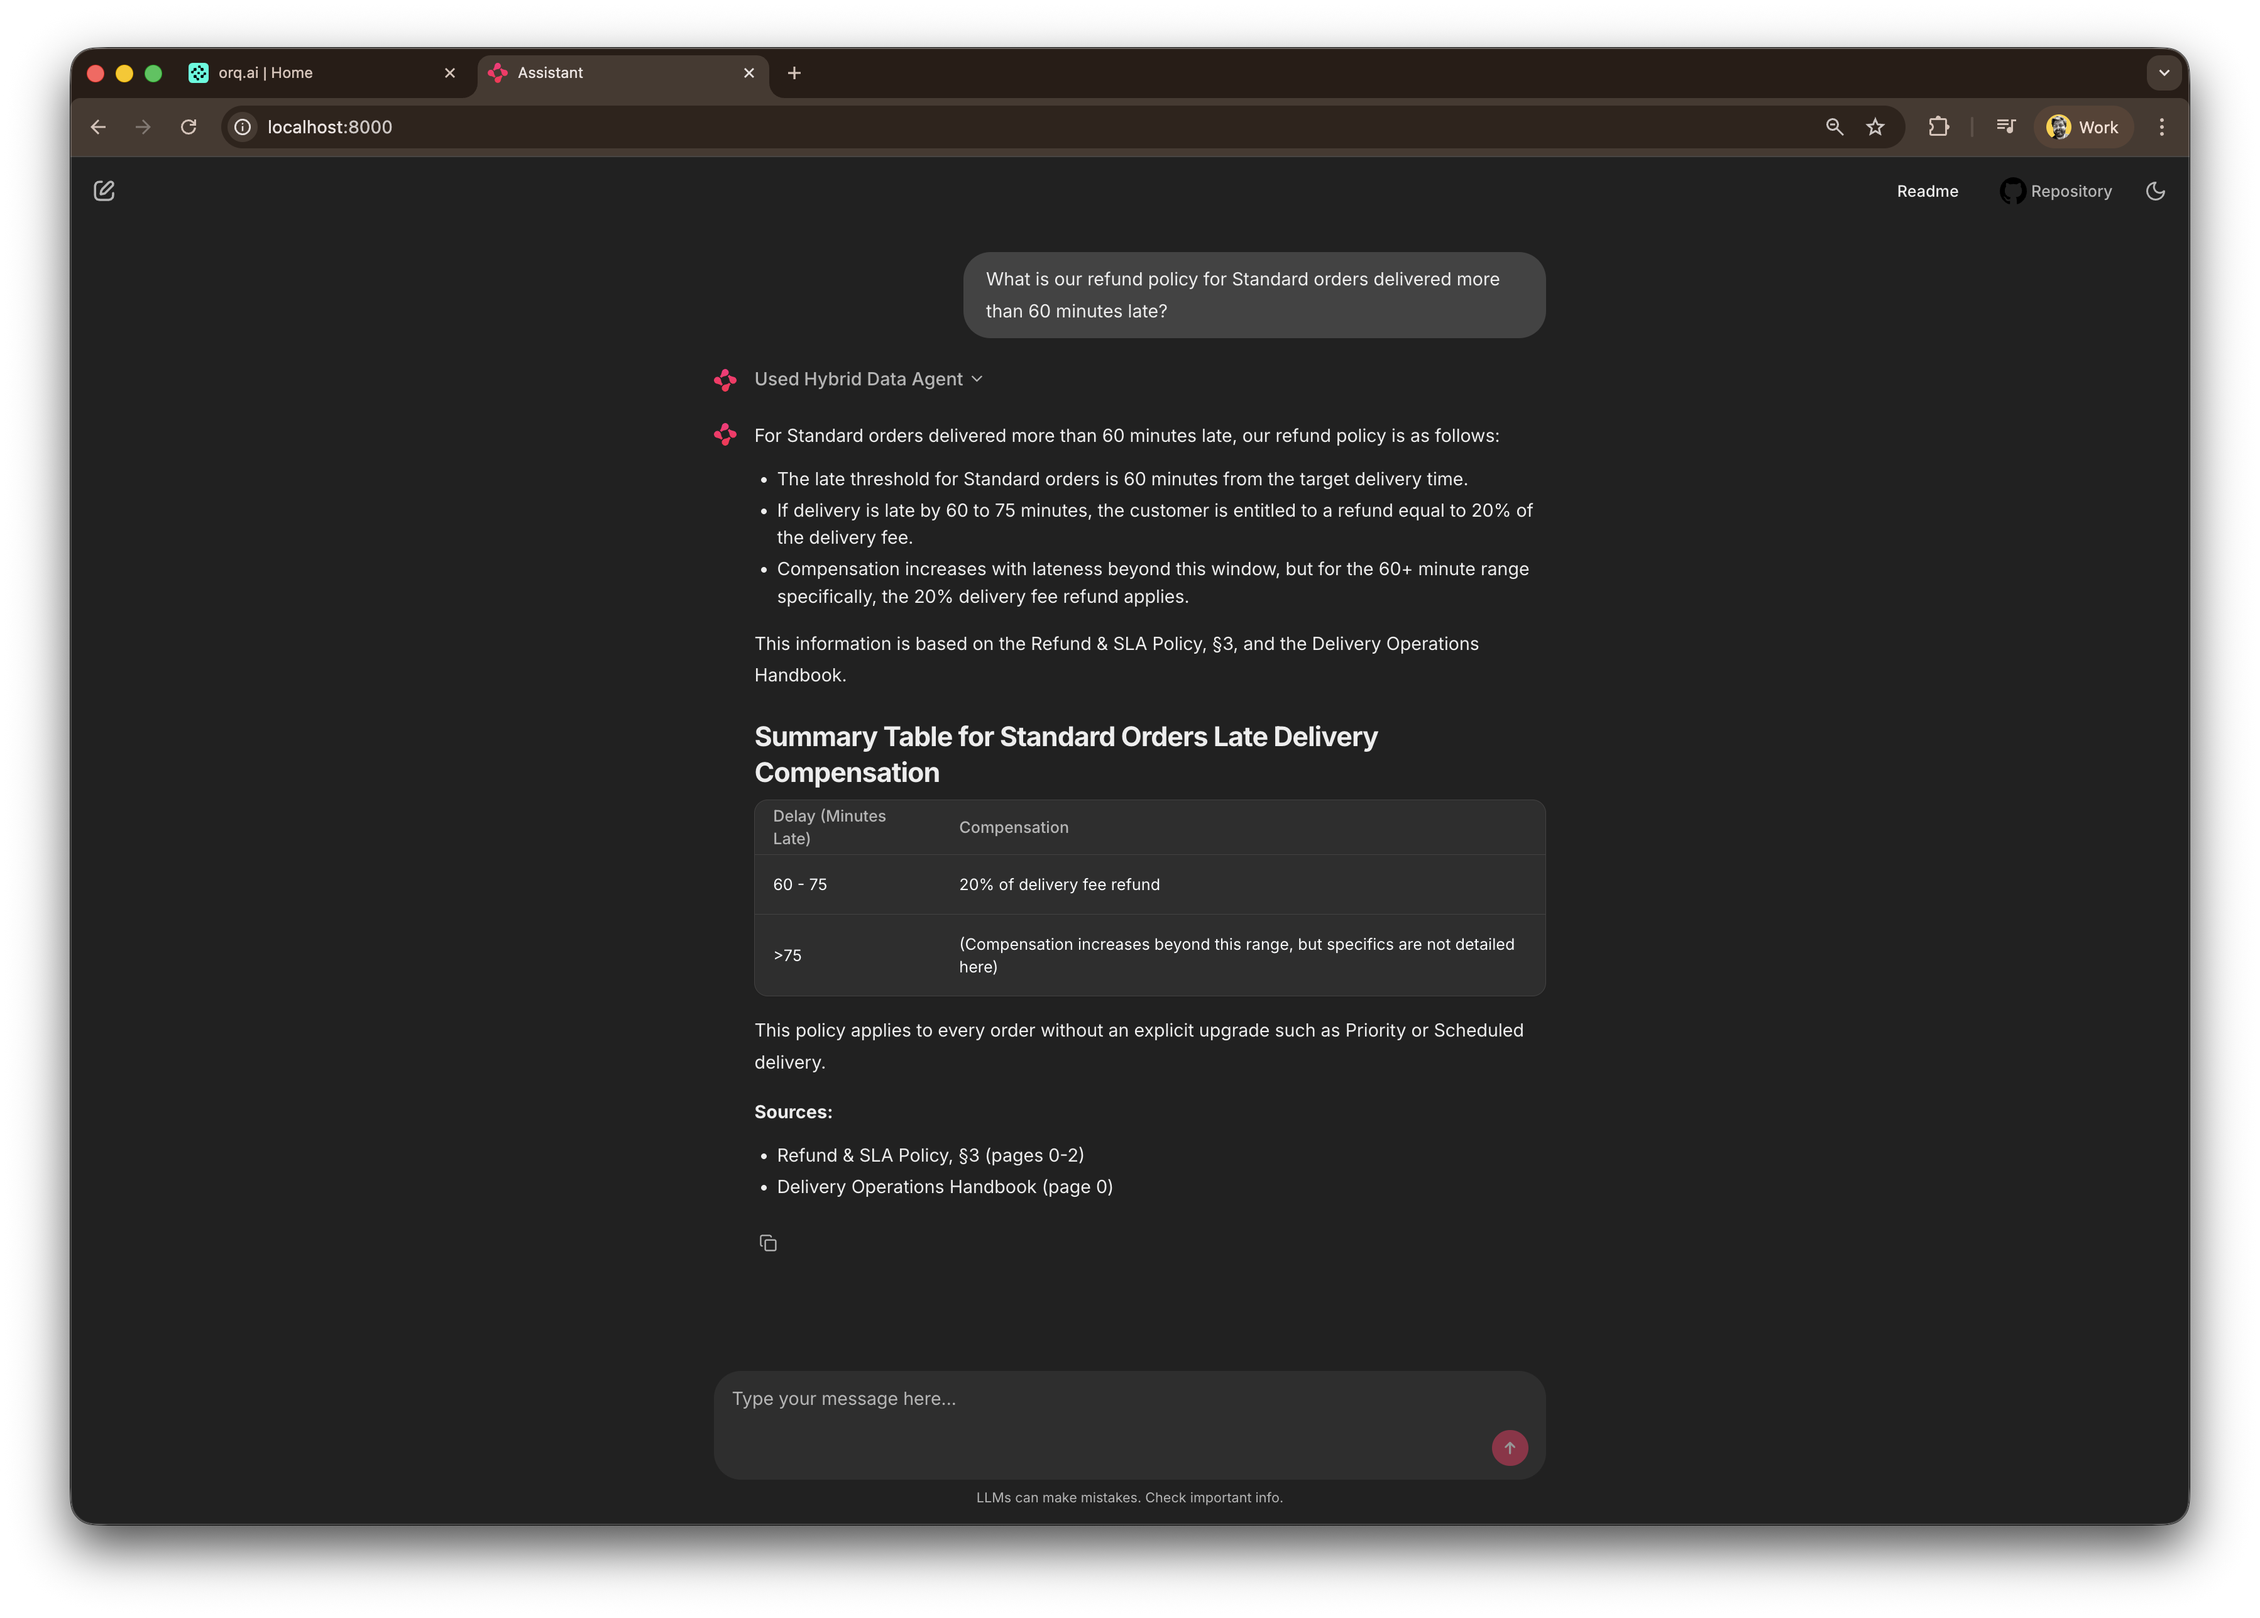
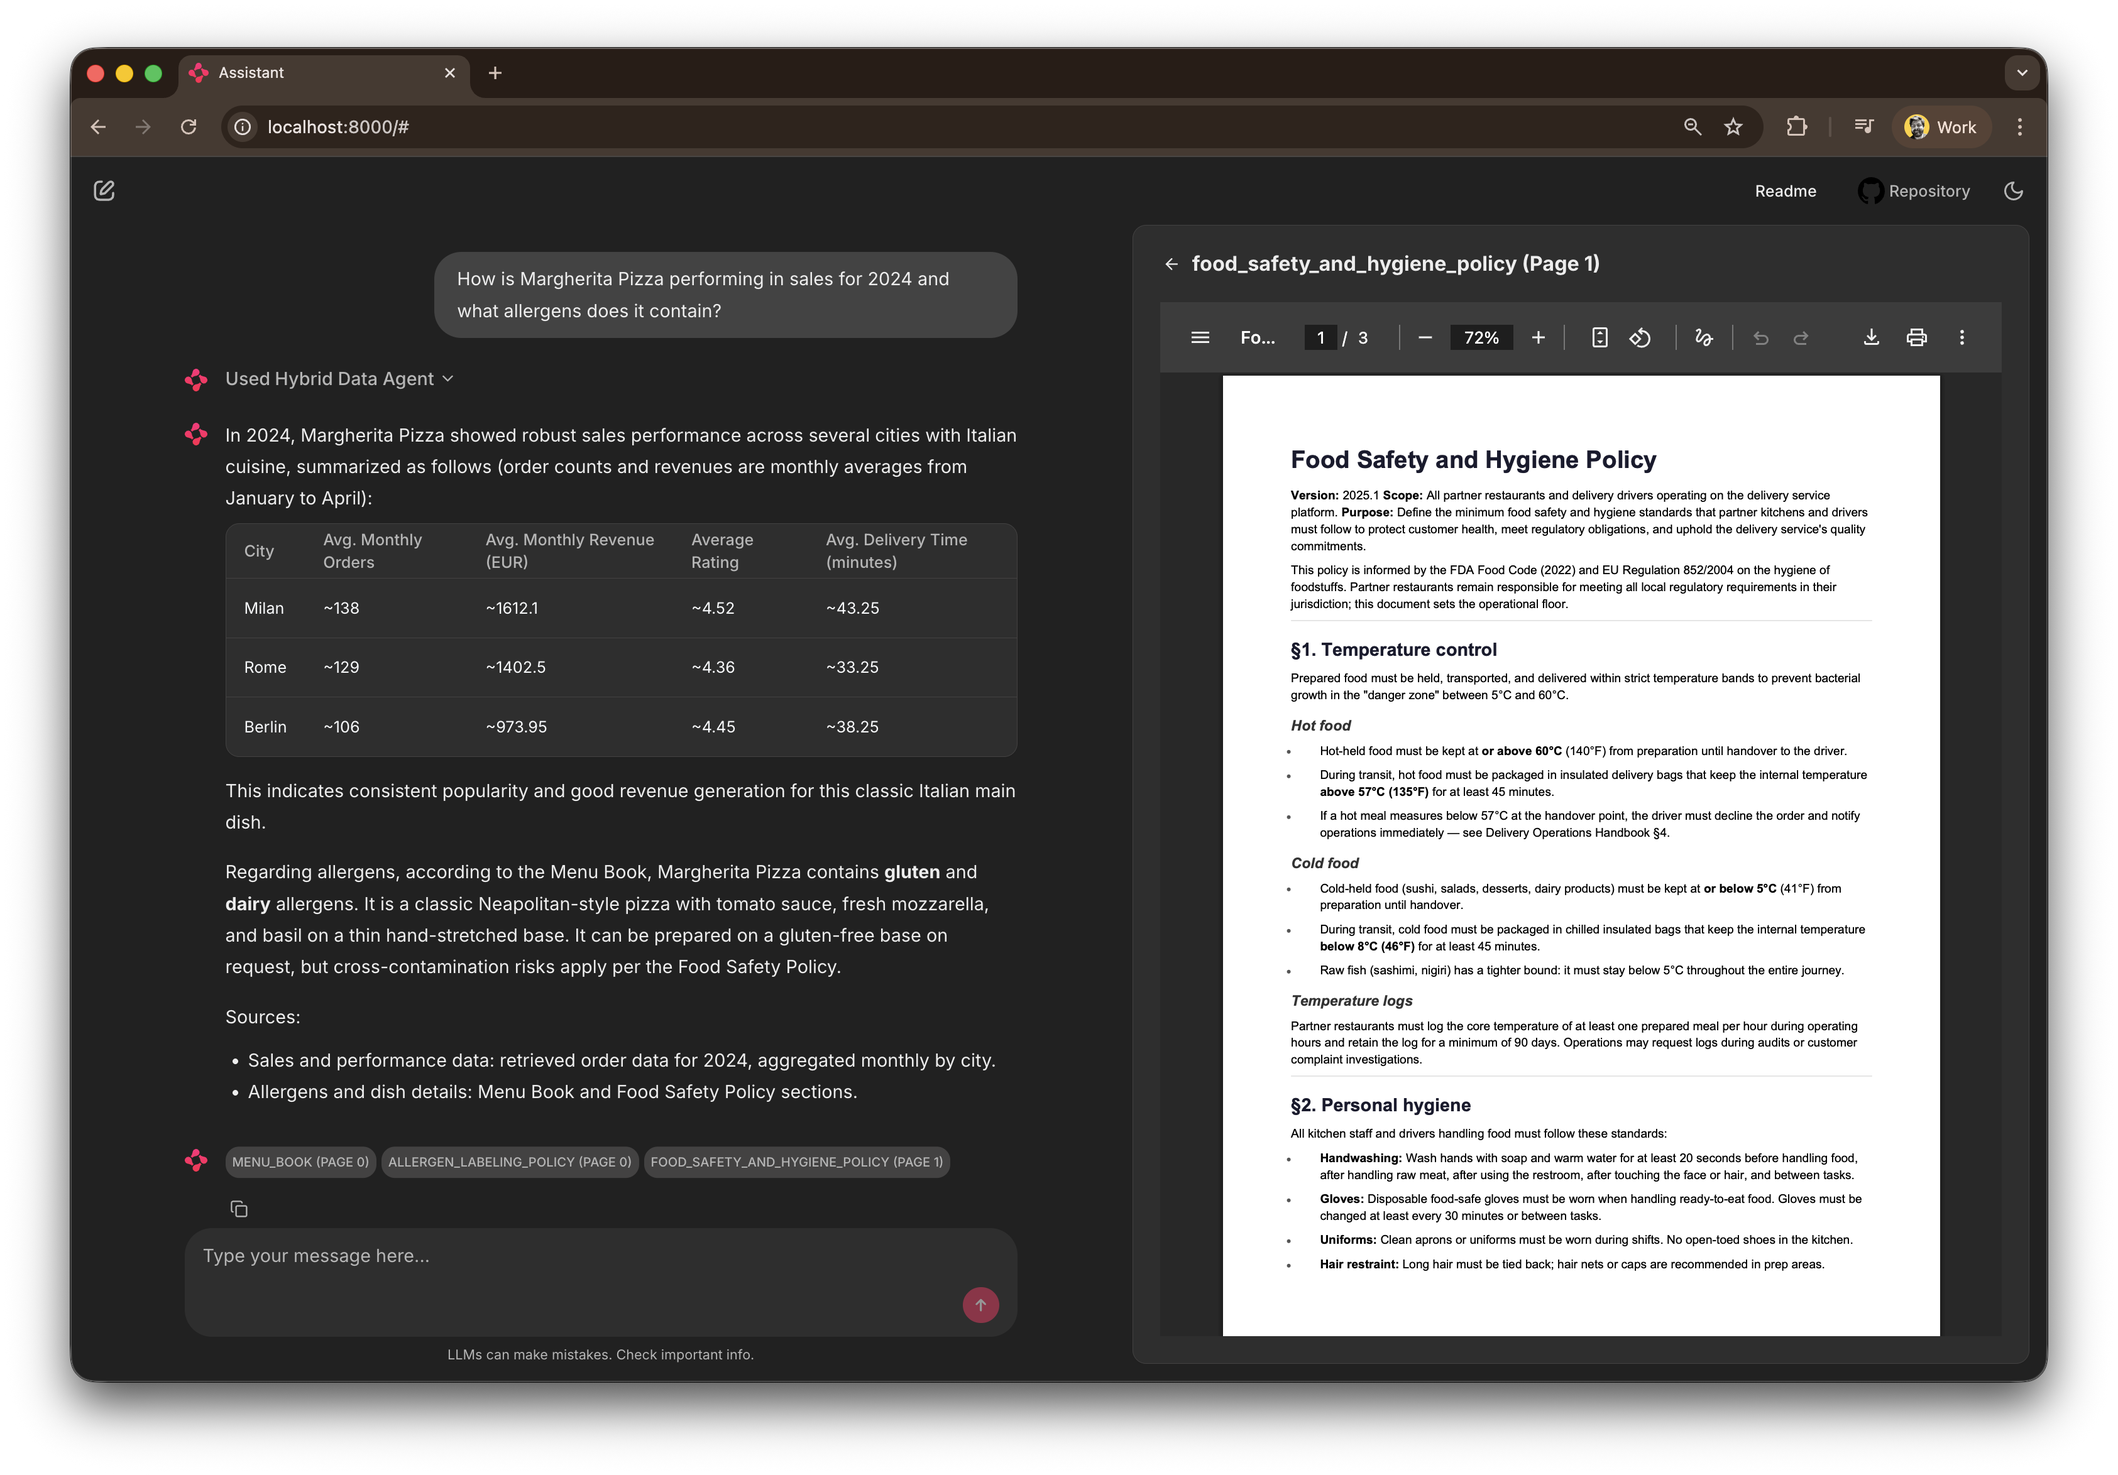
docs(readme): bring back welcome screen + upgrade chainlit_food_demo to the hybrid Margherita query
Replaces the old single-screenshot Chainlit section with two captures
that tell the full story:

1. media/chainlit_home_food.png  (NEW)
   Welcome screen showing the 3 food starters: "Top dishes in 2024",
   "Late-delivery refund policy", "Margherita sales + allergens".
   Brings back the welcome-screen image that was dropped earlier when
   the previous capture still had the Toyota starters and there was no
   replacement on hand.

2. media/chainlit_food_demo.png  (REPLACED)
   Was: refund-policy doc-only query, no PDF preview side panel.
   Now:  the mixed Margherita query with PDF preview side panel showing
         food_safety_and_hygiene_policy.pdf opened to the relevant page.

   This is the money shot — one frame demonstrates:
     - the hybrid SQL+KB story (city-by-city sales table from
       get_orders_by_dish + allergen text from the menu book search)
     - the ToolMessage artifact-driven PDF preview that Phase 1 unlocked
       (content_and_artifact tools + chainlit_app.py walking the message
       stream for SearchResult artifacts)
     - inline citation tags at the bottom (MENU_BOOK_PAGE_0,
       ALLERGEN_LABELING_POLICY_PAGE_0,
       FOOD_SAFETY_AND_HYGIENE_POLICY_PAGE_1) linking each claim back
       to its source

   It's a much stronger first-impression than a doc-only query.

README.md changes
-----------------

The "Run the UI" section now embeds both screenshots with a narrative:
[…]

diff --git a/README.md b/README.md
@@ -203,12 +203,22 @@ make ingest-data
 make run
 ```
 Visit `http://localhost:8000` to chat with the assistant. The welcome
-screen shows three starter prompts (one each for SQL, document, and
-mixed queries). The agent streams its tool calls inline as the response
-comes in, and the answer is grounded in the retrieved KB chunks with
-explicit `Sources:` at the bottom of every response:
+screen shows three starter prompts — one each for SQL-only,
+document-only, and mixed (hybrid) queries:
 
-![Hybrid Data Agent — refund policy query in Chainlit](media/chainlit_food_demo.png)
+![Hybrid Data Agent — Chainlit welcome screen with food starters](media/chainlit_home_food.png)
+
+Click any starter (or type your own question) and the agent streams its
+tool calls inline as the response comes in. The example below shows the
+**mixed** starter — *"How is Margherita Pizza performing in sales for
+2024 and what allergens does it contain?"* — combining a SQL query
+against `fact_orders` with a Knowledge Base search across the menu and
+food-safety policy. The answer renders a city-by-city sales table from
+the SQL tool, the allergen text from the Menu Book, and an inline PDF
+preview of `food_safety_and_hygiene_policy.pdf` opened to the relevant
+page. Citation tags at the bottom link each claim back to its source:
+
+![Hybrid Data Agent — mixed Margherita query with PDF preview](media/chainlit_food_demo.png)
 
 Every node, tool call, and LLM round-trip is also captured in the
 orq.ai Studio Traces tab so you can drill into inputs / outputs /
